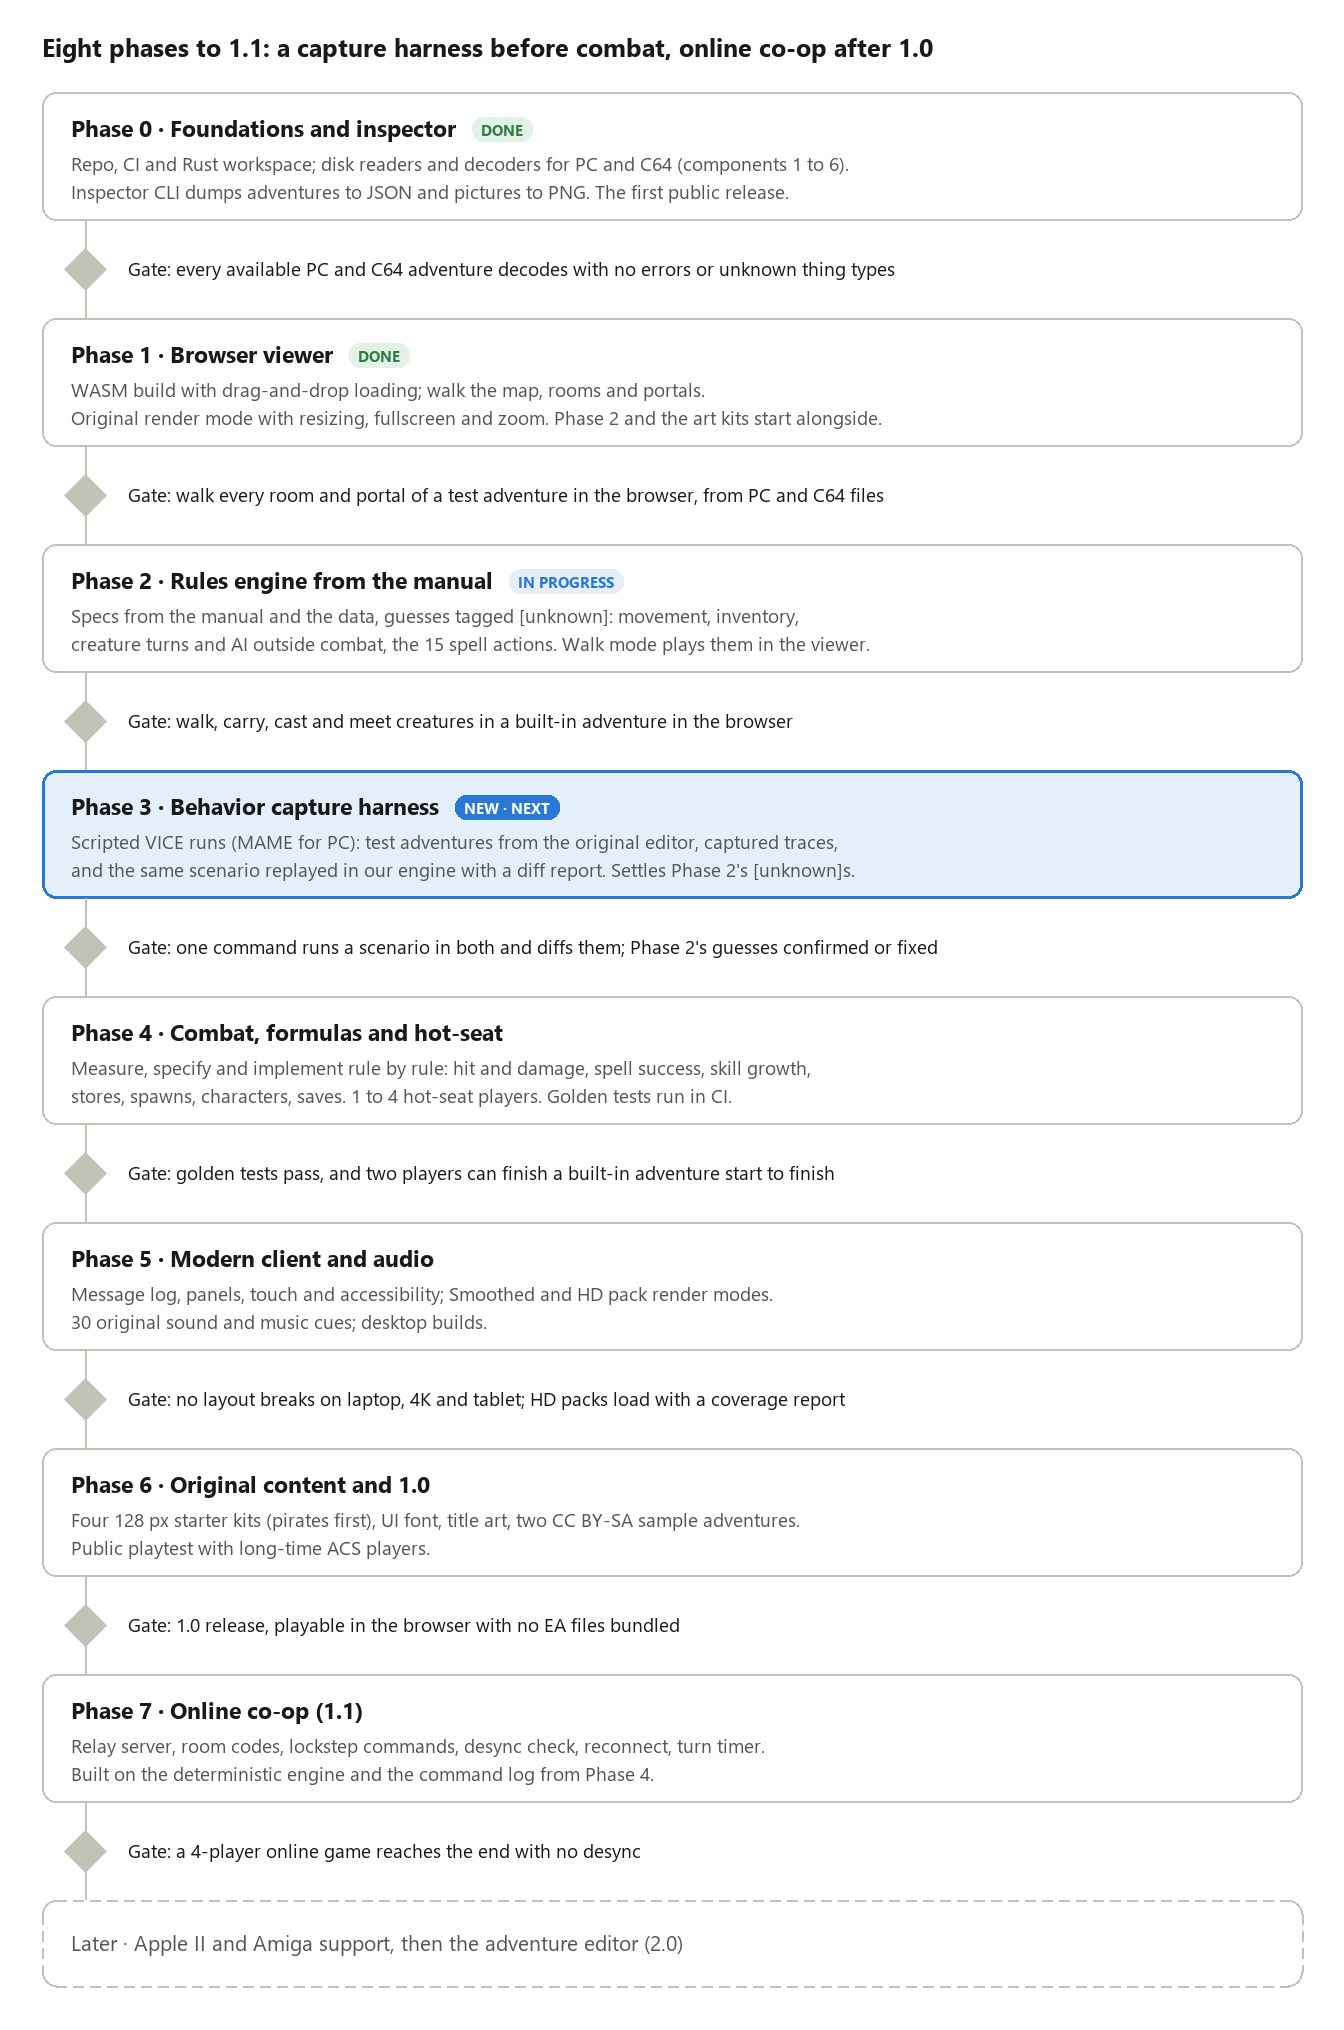
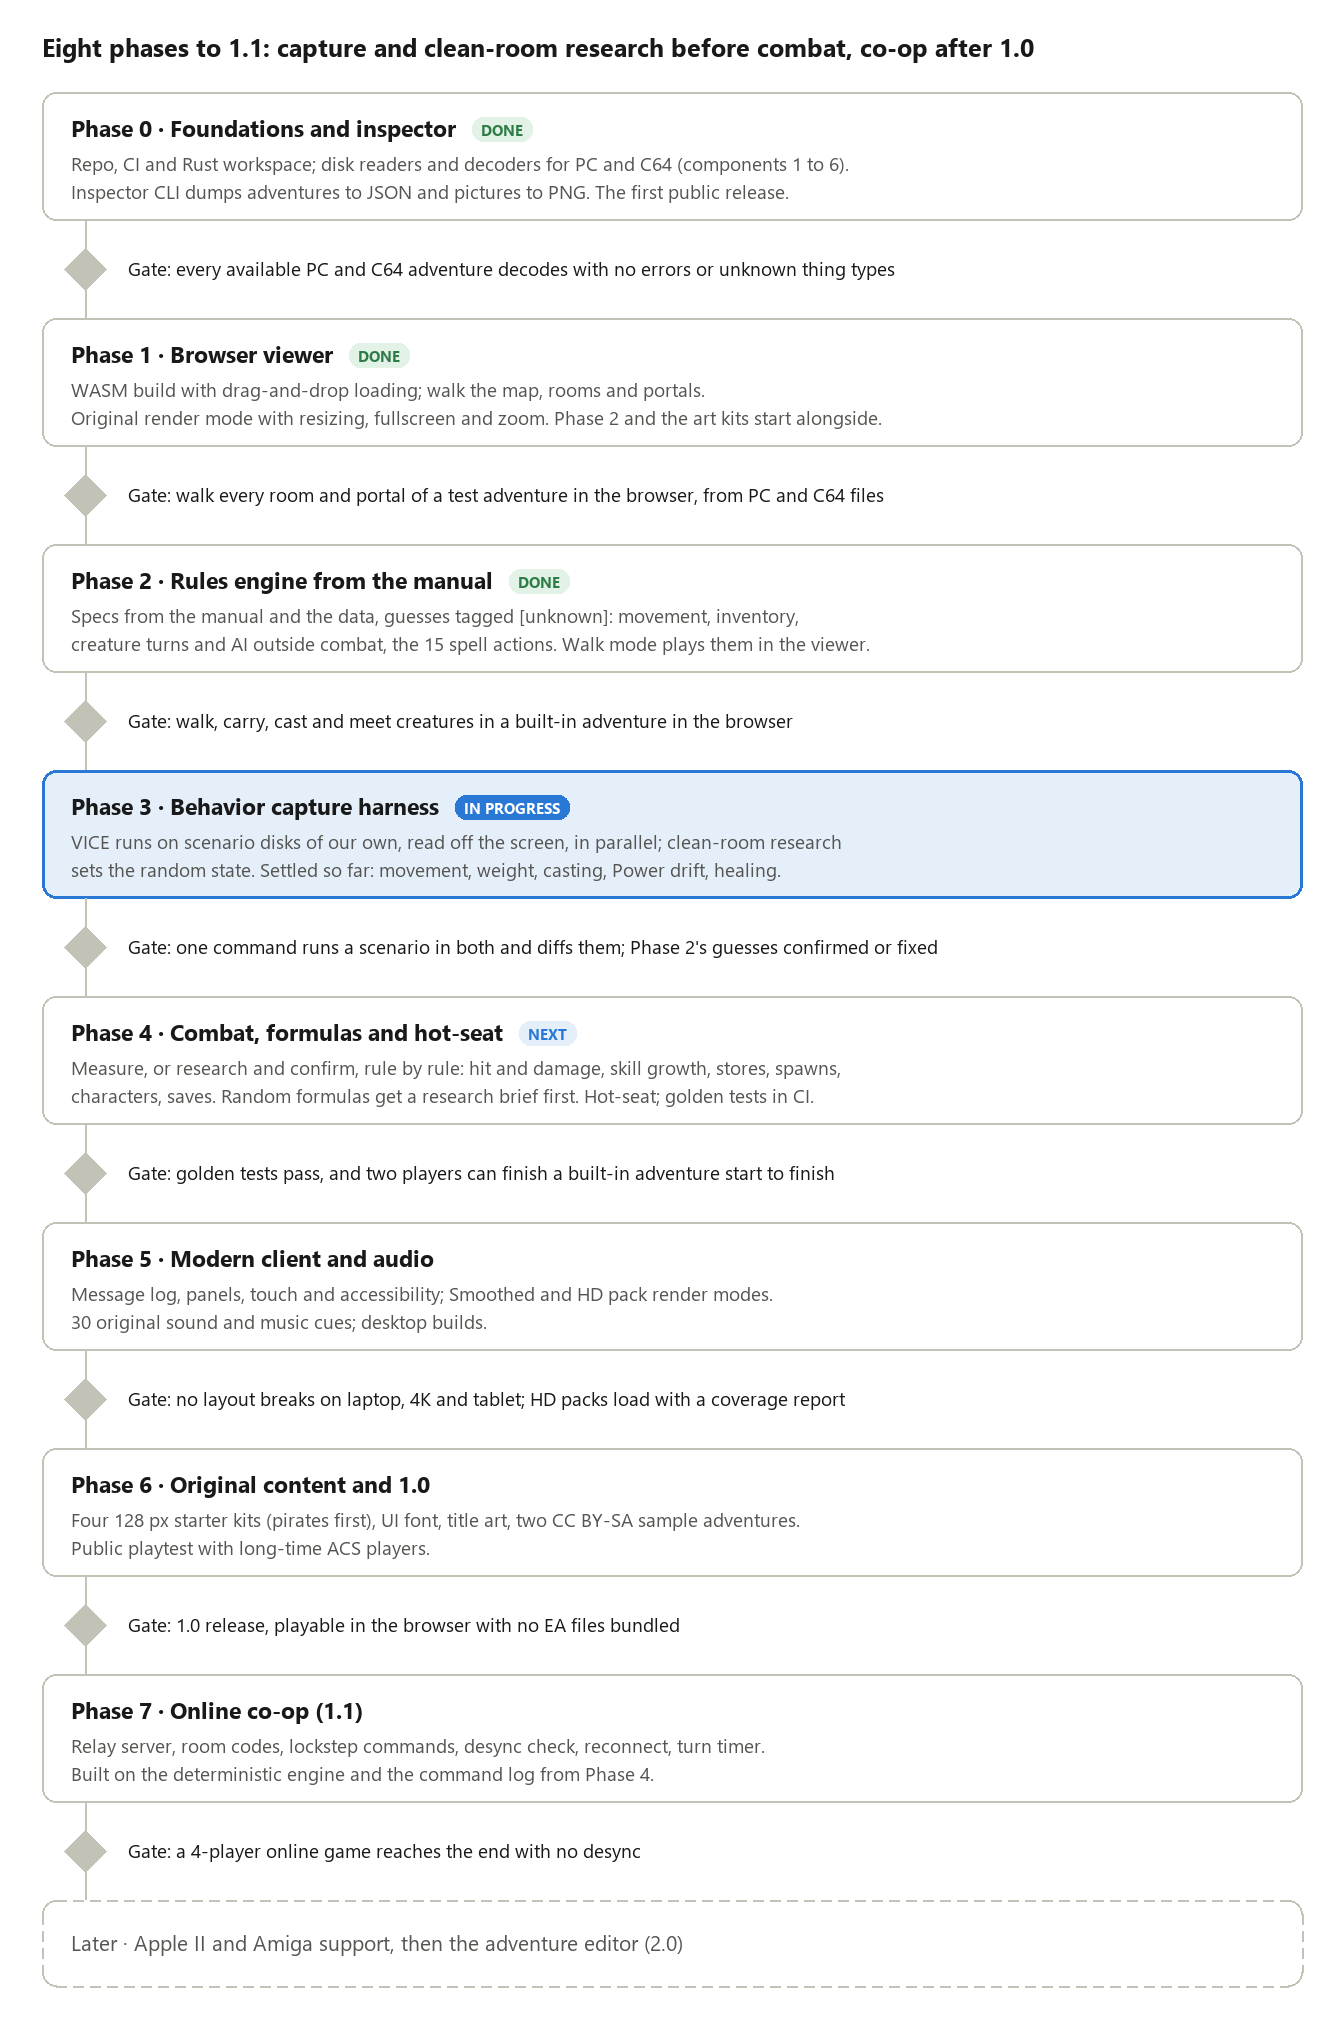
Docs: roadmap with Phase 2 done, Phase 3 in progress and the research step

diff --git a/scripts/roadmap.py b/scripts/roadmap.py
@@ -16,7 +16,7 @@ INK, BODY, LINE = (25, 25, 25), (85, 85, 82), (195, 194, 183)
 BLUE, BLUE_BG = (42, 120, 214), (229, 239, 250)
 GREEN, GREEN_BG = (46, 125, 70), (226, 242, 230)
 
-TITLE = "Eight phases to 1.1: a capture harness before combat, online co-op after 1.0"
+TITLE = "Eight phases to 1.1: capture and clean-room research before combat, co-op after 1.0"
 PHASES = [
     ("Phase 0 \u00b7 Foundations and inspector", "done", [
         "Repo, CI and Rust workspace; disk readers and decoders for PC and C64 (components 1 to 6).",
@@ -26,17 +26,17 @@ PHASES = [
         "WASM build with drag-and-drop loading; walk the map, rooms and portals.",
         "Original render mode with resizing, fullscreen and zoom. Phase 2 and the art kits start alongside."],
      "Gate: walk every room and portal of a test adventure in the browser, from PC and C64 files"),
-    ("Phase 2 \u00b7 Rules engine from the manual", "now", [
+    ("Phase 2 \u00b7 Rules engine from the manual", "done", [
         "Specs from the manual and the data, guesses tagged [unknown]: movement, inventory,",
         "creature turns and AI outside combat, the 15 spell actions. Walk mode plays them in the viewer."],
      "Gate: walk, carry, cast and meet creatures in a built-in adventure in the browser"),
-    ("Phase 3 \u00b7 Behavior capture harness", "next", [
-        "Scripted VICE runs (MAME for PC): test adventures from the original editor, captured traces,",
-        "and the same scenario replayed in our engine with a diff report. Settles Phase 2's [unknown]s."],
+    ("Phase 3 \u00b7 Behavior capture harness", "now", [
+        "VICE runs on scenario disks of our own, read off the screen, in parallel; clean-room research",
+        "sets the random state. Settled so far: movement, weight, casting, Power drift, healing."],
      "Gate: one command runs a scenario in both and diffs them; Phase 2's guesses confirmed or fixed"),
-    ("Phase 4 \u00b7 Combat, formulas and hot-seat", None, [
-        "Measure, specify and implement rule by rule: hit and damage, spell success, skill growth,",
-        "stores, spawns, characters, saves. 1 to 4 hot-seat players. Golden tests run in CI."],
+    ("Phase 4 \u00b7 Combat, formulas and hot-seat", "next", [
+        "Measure, or research and confirm, rule by rule: hit and damage, skill growth, stores, spawns,",
+        "characters, saves. Random formulas get a research brief first. Hot-seat; golden tests in CI."],
      "Gate: golden tests pass, and two players can finish a built-in adventure start to finish"),
     ("Phase 5 \u00b7 Modern client and audio", None, [
         "Message log, panels, touch and accessibility; Smoothed and HD pack render modes.",
@@ -77,14 +77,14 @@ y = 92
 spine_x = 85
 for i, (head, status, lines, gate) in enumerate(PHASES):
     box = (X0, y, X1, y + BOX_H)
-    if status == "next":
+    if status == "now":
         d.rounded_rectangle(box, radius=14, fill=BLUE_BG, outline=BLUE, width=3)
     else:
         d.rounded_rectangle(box, radius=14, fill="white", outline=LINE, width=2)
     d.text((X0 + 29, y + 20), head, font=head_f, fill=INK)
     if status:
-        label = {"done": "DONE", "now": "IN PROGRESS", "next": "NEW \u00b7 NEXT"}[status]
-        fg, bg = {"done": (GREEN, GREEN_BG), "now": (BLUE, BLUE_BG), "next": ("white", BLUE)}[status]
+        label = {"done": "DONE", "now": "IN PROGRESS", "next": "NEXT"}[status]
+        fg, bg = {"done": (GREEN, GREEN_BG), "now": ("white", BLUE), "next": (BLUE, BLUE_BG)}[status]
         hw = d.textlength(head, font=head_f)
         tw = d.textlength(label, font=tag_f)
         tx = X0 + 29 + hw + 16

diff --git a/docs/design.md b/docs/design.md
@@ -1,6 +1,6 @@
 # ACSVM: Open Source Engine Design
 
-> Snapshot of the living design doc: https://claude.ai/artifact/RxNSzwZ9jfzxDfBfCHaVKD (exported 2026-11-10; the living doc was brought up to this copy on 2026-11-12, except its roadmap diagram, which still shows the old five phases). Diagrams are PNG snapshots in docs/images/. Licensed CC BY 4.0.
+> Snapshot of the living design doc: https://claude.ai/artifact/RxNSzwZ9jfzxDfBfCHaVKD (exported 2026-11-10; the living doc was brought up to this copy on 2026-11-12, roadmap image included). Diagrams are PNG snapshots in docs/images/. Licensed CC BY 4.0.
 
 Nov 10, 2026 · @Dragyn
 
